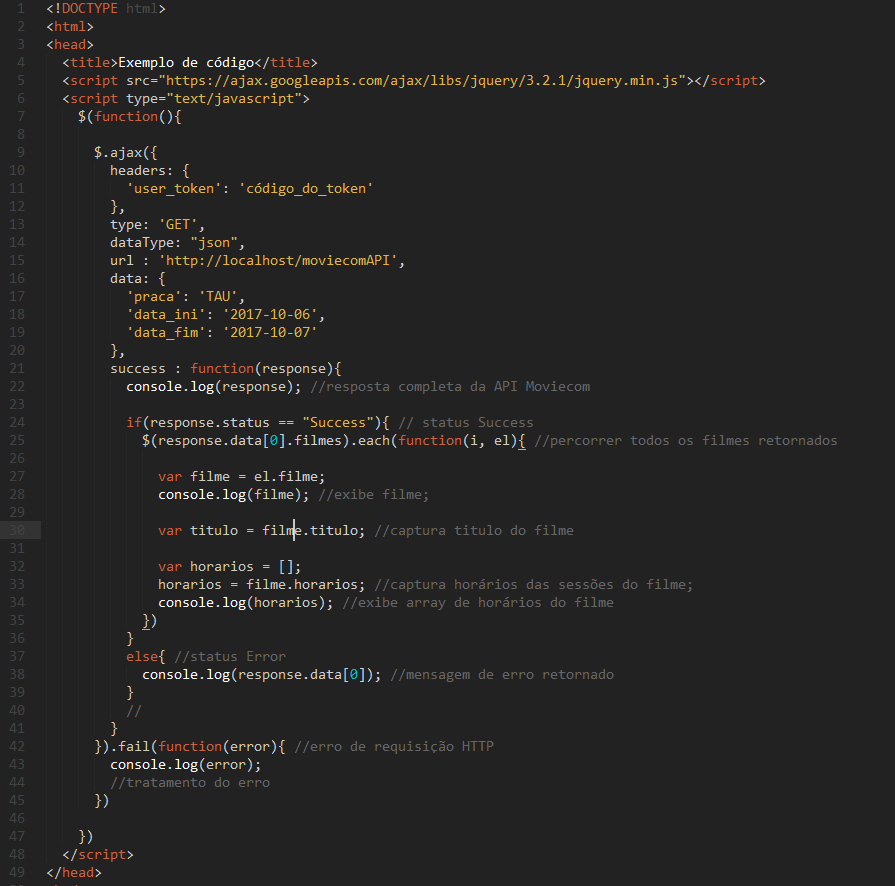
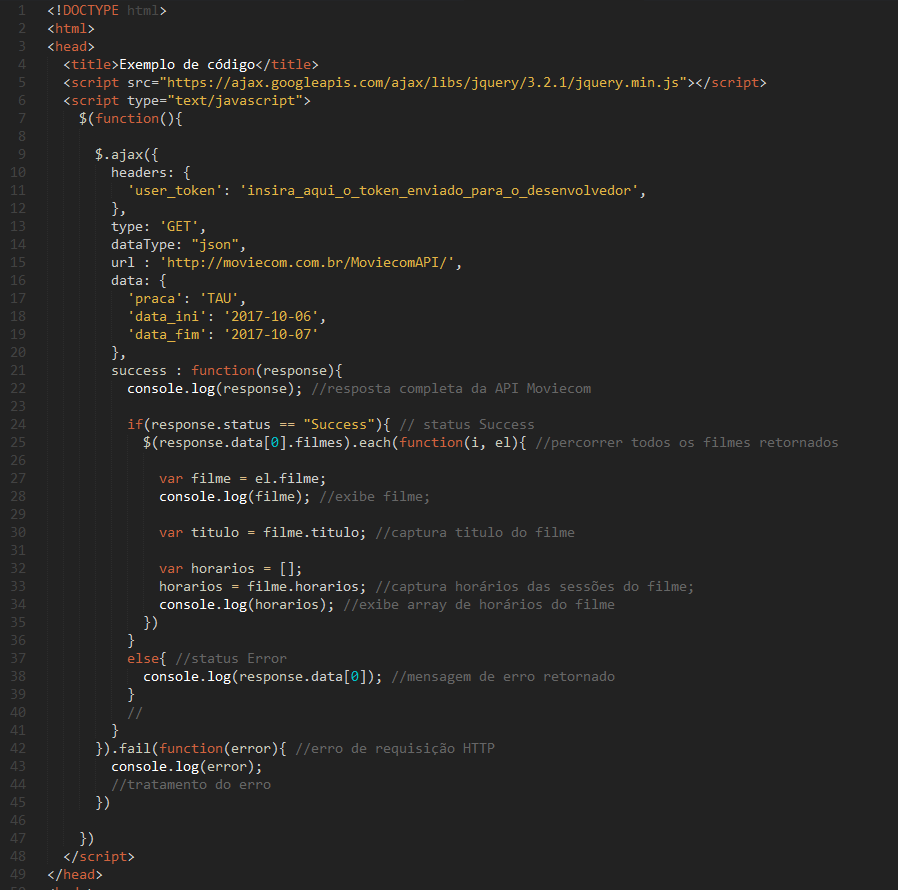
Edição documentação

diff --git a/documentation/style.css b/documentation/style.css
@@ -135,7 +135,7 @@ body{
 }
 
 #body div.code{
-	background: #000;
+	background: #222;
 	overflow: hidden;
 	padding: 30px 40px;
 }
@@ -156,7 +156,7 @@ body{
     clear: left;
     margin-left: 40px;
     font-style: italic;
-    color: #ffcb08;
+    color: #bd512f;
     font-size: 14px;
     margin-bottom: 3px;
 }
@@ -167,7 +167,7 @@ body{
 
 #body div.code span.value{
 	margin-left: 15px;
-	color: #ffffff;
+	color: #ffcb08;
 	font-size: 13px;
 	width: 500px;
 }
@@ -208,4 +208,8 @@ body{
 #body div.code span.name.status,
 #body div.code span.choma.status{
 	margin-left: 15px;
+}
+
+.white{
+	color: #fff !important;
 }

diff --git a/documentation/example.html b/documentation/example.html
@@ -8,11 +8,11 @@
 
       $.ajax({
         headers: {
-          'user_token': 'código_do_token'
+          'user_token': 'insira_aqui_o_token_enviado_para_o_desenvolvedor',
         },
         type: 'GET',
         dataType: "json",
-        url : 'http://moviecom.com.br/moviecomAPI',
+        url : 'http://moviecom.com.br/MoviecomAPI/',
         data: {
           'praca': 'TAU',
           'data_ini': '2017-10-06',

diff --git a/documentation/index.php b/documentation/index.php
@@ -7,7 +7,7 @@
 <body>
   <div id="sideMenu"></div>
   <div id="body">
-    <img src="logo.png"> <h1>- Documentação Moviecom API</h1>
+    <img src="logo.png" style="margin-top: -5px;"> <h1>- Documentação Moviecom API</h1>
 
     <div class="clearAll"></div>
 
@@ -30,7 +30,7 @@
 
       <div class="methodUrl">
         <div>GET</div>
-        <div>http://moviecom.com.br/moviecomAPI</div>
+        <div>http://Moviecom.com.br/moviecomAPI/</div>
       </div>
 
       <div class="clearAll"></div>
@@ -89,10 +89,10 @@
     <section>
       <h2>Exemplo de requisições</h2>
       <div class="code">
-        <span class="comment">//GET http://moviecom.com.br/moviecomAPI</span>
+        <span class="comment">//GET http://Moviecom.com.br/moviecomAPI/</span>
         <span class="choma">{</span>
-        <span class="name">praca: </span><span class="value">"TAU",</span>
-        <span class="name">data_ini: </span><span class="value">"2017-10-06",</span>
+        <span class="name">praca: </span><span class="value">"TAU"<font class="white">,</font></span>
+        <span class="name">data_ini: </span><span class="value">"2017-10-06"<font class="white">,</font></span>
         <span class="name">data_fim: </span><span class="value">"2017-10-07"</span>
         <span class="choma">}</span>
       </div>
@@ -103,43 +103,43 @@
       <div class="code">
         <span class="comment">//success</span>
         <span class="choma">{</span>
-        <span class="name status">"status":</span><span class="value">"Success",</span>
-        <span class="name status">"data": </span><span class="value">[ {</span>
-            <span class="name">"praca": </span><span class="value"> "TAU",</span>
-            <span class="name">"filmes": </span><span class="value"> [</span>
+        <span class="name status">"status":</span><span class="value">"Success"<font class="white">,</font></span>
+        <span class="name status">"data": </span><span class="value white">[ {</span>
+            <span class="name">"praca": </span><span class="value"> "TAU"<font class="white">,</font></span>
+            <span class="name">"filmes": </span><span class="value"> <font class="white">[</font></span>
                 <span class="choma sec">{</span>
-                    <span class="name sec">"filme": </span><span class="value"> {</span>
-                        <span class="name thir">"titulo": </span><span class="value"> "Blade Runner 2049",</span>
-                        <span class="name thir">"cartaz": </span><span class="value"> "http://moviecom.com.br/site/wp-content/uploads/2017/08/blade-runner-ok.jpg",</span>
-                        <span class="name thir">"sinopse": </span><span class="value"> "Após trinta anos dos eventos do primeiro filme, a humanidade está ameaçada novamente e o perigo pode ser ainda maior. O novato oficial K (Ryan Gosling), remexe um segredo enterrado há tempos e que tem o potencial de mergulhar a sociedade em completo caos. Essa descoberta leva o policial a uma frenética busca por um ex-blade runner da polícia de Los Angeles, Rick Deckard (Harrison Ford), que está desaparecido há 30 anos.\r\n<div class=\"fichaFilme\"></div>\r\n&nbsp;",</span>
-                        <span class="name thir">"censura": </span><span class="value"> "14",</span>
-                        <span class="name thir">"trailer": </span><span class="value"> "g-LzzkTi6hk",</span>
-                        <span class="name thir">"ticket_filme": </span><span class="value"> "http://moviecom.com.br/vendafilme/?praca=TAU&idfilme=4502",</span>
-                        <span class="name thir">"horarios":  </span><span class="value">[</span>
+                    <span class="name sec">"filme": </span><span class="value"> <font class="white">{</font></span>
+                        <span class="name thir">"titulo": </span><span class="value"> "Blade Runner 2049"<font class="white">,</font></span>
+                        <span class="name thir">"cartaz": </span><span class="value"> "http://moviecom.com.br/site/wp-content/uploads/2017/08/blade-runner-ok.jpg"<font class="white">,</font></span>
+                        <span class="name thir">"sinopse": </span><span class="value"> "Após trinta anos dos eventos do primeiro filme, a humanidade está ameaçada novamente e o perigo pode ser ainda maior. O novato oficial K (Ryan Gosling), remexe um segredo enterrado há tempos e que tem o potencial de mergulhar a sociedade em completo caos. Essa descoberta leva o policial a uma frenética busca por um ex-blade runner da polícia de Los Angeles, Rick Deckard (Harrison Ford), que está desaparecido há 30 anos.\r\n<div class=\"fichaFilme\"></div>\r\n&nbsp;"<font class="white">,</font></span>
+                        <span class="name thir">"censura": </span><span class="value"> "14"<font class="white">,</font></span>
+                        <span class="name thir">"trailer": </span><span class="value"> "g-LzzkTi6hk"<font class="white">,</font></span>
+                        <span class="name thir">"ticket_filme": </span><span class="value"> "http://moviecom.com.br/vendafilme/?praca=TAU&idfilme=4502"<font class="white">,</font></span>
+                        <span class="name thir">"horarios":  </span><span class="value"><font class="white">[</font></span>
                             <span class="choma four">{</span>
-                                <span class="name fif">"sessao": </span><span class="value minor"> {</span>
-                                    <span class="name six">"tipo": </span><span class="value minor"> "DUB",</span>
-                                    <span class="name six">"dia": </span><span class="value minor"> "2017-10-06",</span>
-                                    <span class="name six">"hora": </span><span class="value minor"> "16:15:00",</span>
-                                    <span class="name six">"sala": </span><span class="value minor"> "03",</span>
+                                <span class="name fif">"sessao": </span><span class="value minor"> <font class="white">{</font></span>
+                                    <span class="name six">"tipo": </span><span class="value minor"> "DUB"<font class="white">,</font></span>
+                                    <span class="name six">"dia": </span><span class="value minor"> "2017-10-06"<font class="white">,</font></span>
+                                    <span class="name six">"hora": </span><span class="value minor"> "16:15:00"<font class="white">,</font></span>
+                                    <span class="name six">"sala": </span><span class="value minor"> "03"<font class="white">,</font></span>
                                     <span class="name six">"ticket_sessao": </span><span class="value minor"> "http://moviecom.com.br/vendasessao/?idprog=11e7a87469b29cc480ce84349711a651&praca=TAU"</span>
                                 <span class="choma fif">}</span>
                             <span class="choma four">},</span>
                             <span class="choma four">{</span>
-                                <span class="name fif">"sessao": </span><span class="value minor"> {</span>
-                                    <span class="name six">"tipo": </span><span class="value minor"> "DUB",</span>
-                                    <span class="name six">"dia": </span><span class="value minor"> "2017-10-06",</span>
-                                    <span class="name six">"hora": </span><span class="value minor"> "19:30:00",</span>
-                                    <span class="name six">"sala": </span><span class="value minor"> "03",</span>
+                                <span class="name fif">"sessao": </span><span class="value minor"> <font class="white">{</font></span>
+                                    <span class="name six">"tipo": </span><span class="value minor"> "DUB"<font class="white">,</font></span>
+                                    <span class="name six">"dia": </span><span class="value minor"> "2017-10-06"<font class="white">,</font></span>
+                                    <span class="name six">"hora": </span><span class="value minor"> "19:30:00"<font class="white">,</font></span>
+                                    <span class="name six">"sala": </span><span class="value minor"> "03"<font class="white">,</font></span>
                                     <span class="name six">"ticket_sessao": </span><span class="value minor"> "http://moviecom.com.br/vendasessao/?idprog=11e7a87469b29d3480ce84349711a651&praca=TAU"</span>
                                 <span class="choma fif">}</span>
                             <span class="choma four">},</span>
                             <span class="choma four">{</span>
-                                <span class="name fif">"sessao": </span><span class="value minor"> {</span>
-                                    <span class="name six">"tipo": </span><span class="value minor"> "LEG 3D",</span>
-                                    <span class="name six">"dia": </span><span class="value minor"> "2017-10-06",</span>
-                                    <span class="name six">"hora": </span><span class="value minor"> "21:10:01",</span>
-                                    <span class="name six">"sala": </span><span class="value minor"> "04",</span>
+                                <span class="name fif">"sessao": </span><span class="value minor"> <font class="white">{</font></span>
+                                    <span class="name six">"tipo": </span><span class="value minor"> "LEG 3D"<font class="white">,</font></span>
+                                    <span class="name six">"dia": </span><span class="value minor"> "2017-10-06"<font class="white">,</font></span>
+                                    <span class="name six">"hora": </span><span class="value minor"> "21:10:01"<font class="white">,</font></span>
+                                    <span class="name six">"sala": </span><span class="value minor"> "04"<font class="white">,</font></span>
                                     <span class="name six">"ticket_sessao": </span><span class="value minor"> "http://moviecom.com.br/vendasessao/?idprog=11e7a87469b29d5080ce84349711a651&praca=TAU"</span>
                                 <span class="choma fif">}</span>
                             <span class="choma four">}</span>
@@ -158,9 +158,9 @@
       <div class="code">
         <span class="comment">//error</span>
         <span class="choma">{</span>
-        <span class="name status">"status":</span><span class="value">"Error",</span>
-        <span class="name status">"data": </span><span class="value">[</span>
-        <span class="name sec">"É necessário enviar os parâmetros de data início, data fim e código da praça."</span>
+        <span class="name status">"status":</span><span class="value">"Error"<font class="white">,</font></span>
+        <span class="name status">"data": </span><span class="value"><font class="white">[</font></span>
+        <span class="name"></span><span class="value">"É necessário enviar os parâmetros de data início, data fim e código da praça."</span>
         <span class="choma status">]</span>
         <span class="choma">}</span>
       </div>
@@ -169,9 +169,9 @@
       <div class="code">
         <span class="comment">//error</span>
         <span class="choma">{</span>
-        <span class="name status">"status":</span><span class="value">"Error",</span>
-        <span class="name status">"data": </span><span class="value">[</span>
-        <span class="name sec">"É necessário enviar o token de autenticação."</span>
+        <span class="name status">"status":</span><span class="value">"Error"<font class="white">,</font></span>
+        <span class="name status">"data": </span><span class="value"><font class="white">[</font></span>
+        <span class="name"></span><span class="value">"É necessário enviar o token de autenticação."</span>
         <span class="choma status">]</span>
         <span class="choma">}</span>
       </div>
@@ -180,9 +180,9 @@
       <div class="code">
         <span class="comment">//error</span>
         <span class="choma">{</span>
-        <span class="name status">"status":</span><span class="value">"Error",</span>
-        <span class="name status">"data": </span><span class="value">[</span>
-        <span class="name sec">"Token de autenticação inválido."</span>
+        <span class="name status">"status":</span><span class="value">"Error"<font class="white">,</font></span>
+        <span class="name status">"data": </span><span class="value"><font class="white">[</font></span>
+        <span class="name"></span><span class="value">"Token de autenticação inválido."</span>
         <span class="choma status">]</span>
         <span class="choma">}</span>
       </div>
@@ -191,9 +191,9 @@
       <div class="code">
         <span class="comment">//error</span>
         <span class="choma">{</span>
-        <span class="name status">"status":</span><span class="value">"Error",</span>
-        <span class="name status">"data": </span><span class="value">[</span>
-        <span class="name sec">"Número máximo de dias disponíveis para consulta é de 60 dias."</span>
+        <span class="name status">"status":</span><span class="value">"Error"<font class="white">,</font></span>
+        <span class="name status">"data": </span><span class="value"><font class="white">[</font></span>
+        <span class="name"></span><span class="value">"Número máximo de dias disponíveis para consulta é de 60 dias."</span>
         <span class="choma status">]</span>
         <span class="choma">}</span>
       </div>
@@ -202,9 +202,9 @@
       <div class="code">
         <span class="comment">//error</span>
         <span class="choma">{</span>
-        <span class="name status">"status":</span><span class="value">"Error",</span>
-        <span class="name status">"data": </span><span class="value">[</span>
-        <span class="name sec">"Erro interno."</span>
+        <span class="name status">"status":</span><span class="value">"Error"<font class="white">,</font></span>
+        <span class="name status">"data": </span><span class="value"><font class="white">[</font></span>
+        <span class="name"></span><span class="value">"Erro interno."</span>
         <span class="choma status">]</span>
         <span class="choma">}</span>
       </div>

diff --git a/index.php b/index.php
@@ -1,5 +1,11 @@
 <?php
 
+header('Content-Type: application/json; charset=utf-8');
+header('Access-Control-Allow-Origin: *');
+header("Access-Control-Allow-Methods", "GET,PUT,POST,DELETE,PATCH,OPTIONS");
+//header("Access-Control-Request-Headers", 'user_token');
+header("Access-Control-Allow-Headers: Origin, X-Requested-With, Content-Type, Accept, Authorization, Access-Control-Allow-Origin, user_token");
+
 $db_host  = "107.170.68.250";
 $db_name  = "wordpress";
 $db_id    = "moviecom";
@@ -68,11 +74,10 @@ function retornaJson($programacao){
 
 /*fim functions*/
 
-header('Content-Type: application/json; charset=utf-8');
-
 $programacao = array();
 $programacao['status'] = "";
 $programacao['data'] = array();
+
 
 //parâmetros válidos
 if((!isset($_GET['praca']) || trim($_GET['praca']) == "") || (!isset($_GET['data_fim']) || trim($_GET['data_fim']) == "") || (!isset($_GET['data_ini']) || trim($_GET['data_ini']) == "") ){
@@ -105,6 +110,8 @@ else if(!verificaRegistraTokenUsuario($cn, getallheaders()['user_token'])){
   return false;
 }
 else{
+  
+
     $praca = anti_injection($_GET['praca']);
     $dataIni = anti_injection($_GET['data_ini']);
     $dataFim = anti_injection($_GET['data_fim']);
@@ -139,7 +146,7 @@ else{
       while($row = mysqli_fetch_assoc($result_filmes)){ //while filmes
         $nome_filme = $row['IDFILMEPAI_DESC'];
 
-        $query = "SELECT * FROM sys_programacao WHERE CODPRACA = '$praca' AND DATASESSAO > '$dataIni 00:00:00' AND DATASESSAO < '$dataFim 00:00:00' AND IDFILMEPAI_DESC = '$nome_filme' ORDER BY IDFILMEPAI_DESC, DATASESSAO";
+        $query = "SELECT * FROM wordpress.sys_programacao WHERE CODPRACA = '$praca' AND DATASESSAO > '$dataIni 00:00:00' AND DATASESSAO < '$dataFim 00:00:00' AND IDFILMEPAI_DESC = '$nome_filme' ORDER BY IDFILMEPAI_DESC, DATASESSAO";
 
         $result = mysqli_query($cn, $query);
 
@@ -173,10 +180,9 @@ else{
           }
 
           //dia / hora
-          $data = split(' ', $row1['DATASESSAO']);
+          $data = explode(' ', $row1['DATASESSAO']);
           $dia = $data[0];
           $hora = $data[1];
-
 
           $horarios[] = array(
               'sessao' => array(
@@ -242,6 +248,8 @@ else{
         );
       } //fim while filmes
       $programacao['status'] = "Success";
+
+
 
       registraLogRequisicao($cn, $token, $praca, $dataIni, $dataFim, "Success");
 
